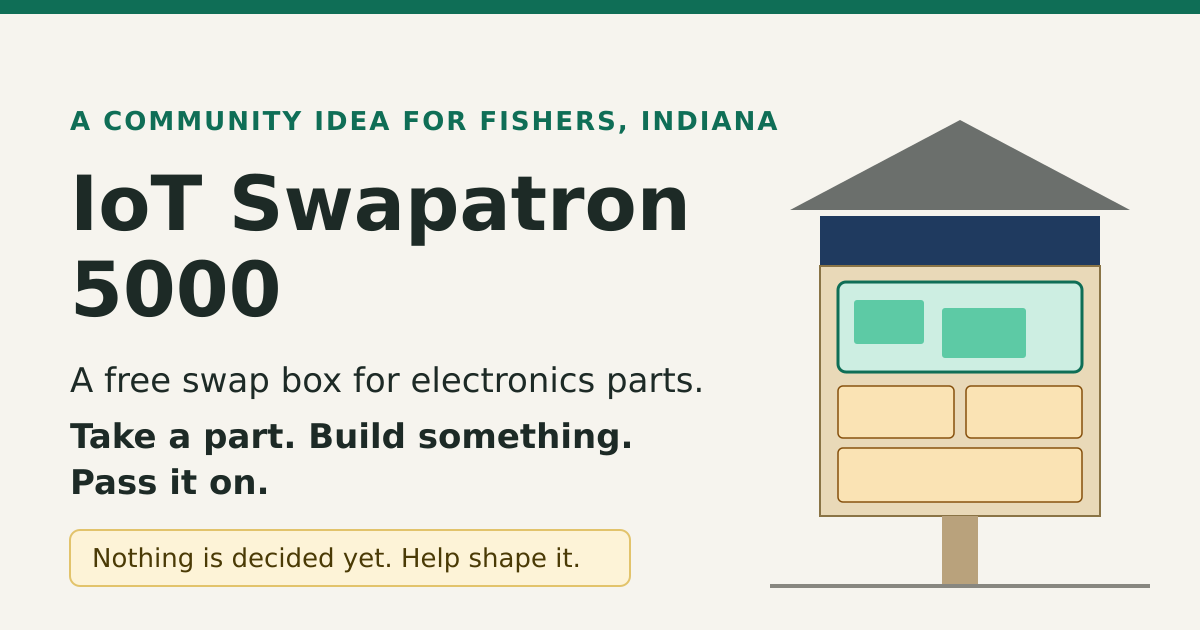
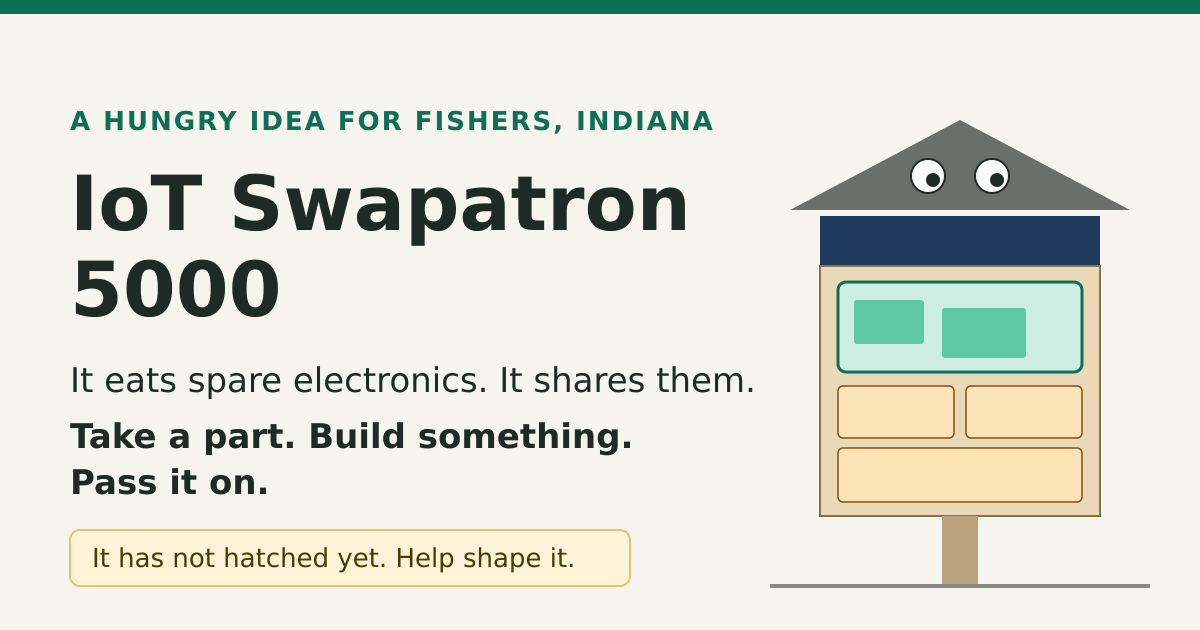
Give Swapatron a voice and welcome doubts as challenges
Writes the page, README, and share kit in a playful creature voice,
adds CHALLENGES.md with a 'This won't work because' issue form and a
list of known unsolved challenges, adds voice guidance for AI
assistants, and puts eyes on the example drawing and social card.

Claude-Session: https://claude.ai/code/session_01EjW4fMZqNJpCpFvE8avVg6

diff --git a/index.html b/index.html
@@ -73,14 +73,14 @@
 </head>
 <body>
 <main>
-  <div class="tag">A community idea for Fishers, Indiana</div>
+  <div class="tag">A hungry idea for Fishers, Indiana</div>
   <h1>IoT Swapatron 5000</h1>
-  <p class="lead">A free swap box for electronics parts, open to everyone.</p>
+  <p class="lead">Meet Swapatron. It is a box. It eats spare electronics parts, and it gives them to whoever needs them next.</p>
   <p class="lead promise">Take a part. Build something. Pass it on.</p>
 
   <section class="note">
     <h2>Nothing is decided yet</h2>
-    <p>The box does not exist yet. The design, the rules, the name, and the dates are all open. We are collecting ideas until <strong>Sunday, January 10, 2027</strong>, and we want yours.</p>
+    <p>Swapatron has not hatched yet. Its shape, its rules, its name, and its dates are all open. We are collecting ideas until <strong>Sunday, January 10, 2027</strong>, and we want yours.</p>
   </section>
 
   <section>
@@ -89,7 +89,8 @@
       <img src="hardware/designs/example-concept/concept-front.svg" alt="Example sketch of an outdoor box with a sloped roof, a sign, a sealed bin for boards, and open bins for wire and hardware" width="800" height="680">
       <figcaption>One example sketch to react to. It is not the chosen design.</figcaption>
     </figure>
-    <p>Think of a neighborhood book box, but for dev boards, sensors, wire, and connectors. It would sit outside the Indiana IoT Lab, and the community would design it, build it, stock it, and look after it.</p>
+    <p>Think of a neighborhood book box, but for dev boards, sensors, wire, and connectors. Swapatron would live outside the Indiana IoT Lab. The community would design it, build it, feed it, and look after it.</p>
+    <p>You feed it the parts in your drawer. It passes them on to someone who will build with them. (Yes, "passes". We are not explaining further.)</p>
   </section>
 
   <section>
@@ -97,11 +98,11 @@
     <div class="cols">
       <div>
         <h3>New to electronics?</h3>
-        <p>Get parts for free, with a note on what each one is and what to build first. No experience needed.</p>
+        <p>Swapatron shares. Take free parts, with a note on what each one is and what to build first. No experience needed.</p>
       </div>
       <div>
         <h3>Been building for years?</h3>
-        <p>Give your spare parts a second life, and start someone off with what you know.</p>
+        <p>Swapatron is hungry. Feed it your spare parts, and start someone off with what you know.</p>
       </div>
     </div>
   </section>
@@ -115,13 +116,19 @@
   </section>
 
   <section>
+    <h2>Think it won't work?</h2>
+    <p>Good. Tell Swapatron to its face. Every "this won't work because..." is treated as a challenge to overcome, not a reason to quit. Swapatron can not fix what it only hears about secondhand.</p>
+    <a class="btn alt" href="https://github.com/Fishers-Founders-United/Swapatron5000/blob/main/CHALLENGES.md">Tell it why it won't work</a>
+  </section>
+
+  <section>
     <h2>The proposed timeline</h2>
     <table>
       <tr><td>Now to Jan 10, 2027</td><td>Listen. Collect ideas and sketches</td></tr>
       <tr><td>Jan 11 to Jan 31</td><td>Decide, in the open</td></tr>
       <tr><td>Feb 1 to Mar 14</td><td>Gather materials</td></tr>
       <tr><td>Sat Mar 20</td><td>Build day, indoors at the lab</td></tr>
-      <tr><td>Sat Apr 24</td><td>Opening day</td></tr>
+      <tr><td>Sat Apr 24</td><td>Opening day. First feeding</td></tr>
     </table>
     <p>Every date is a proposal, and depends on the lab approving the site. <a href="https://github.com/Fishers-Founders-United/Swapatron5000/blob/main/ROADMAP.md">Full timeline</a>.</p>
   </section>

diff --git a/README.md b/README.md
@@ -4,11 +4,15 @@
 
 **Take a part. Build something. Pass it on.**
 
-> **Nothing is decided yet.** The box does not exist. The design, the rules, the name, and the dates are all open. We are collecting ideas until **Sunday, January 10, 2027**. [Have your say](docs/have-your-say.md).
+Meet Swapatron. It is a box. It eats spare electronics parts, and it gives them to whoever needs them next.
+
+> **Nothing is decided yet.** Swapatron has not hatched. Its shape, its rules, its name, and its dates are all open. We are collecting ideas until **Sunday, January 10, 2027**. [Have your say](docs/have-your-say.md).
 
 ## The idea
 
-Think of a neighborhood book box, but for dev boards, sensors, wire, and connectors. It would sit outside the Indiana IoT Lab. The community would design it, build it, stock it, and look after it.
+Think of a neighborhood book box, but for dev boards, sensors, wire, and connectors. Swapatron would live outside the Indiana IoT Lab. The community would design it, build it, feed it, and look after it.
+
+You feed it the parts in your drawer. It passes them on to someone who will build with them. (Yes, "passes". We are not explaining further.)
 
 ![Example concept, front view](hardware/designs/example-concept/concept-front.svg)
 
@@ -16,8 +20,8 @@ Think of a neighborhood book box, but for dev boards, sensors, wire, and connect
 
 ## Who it is for
 
-- **New to electronics?** Get parts for free, with a note on what each one is and what to build first.
-- **Been building for years?** Give your spare parts a second life, and start someone off with what you know.
+- **New to electronics?** Swapatron shares. Take free parts, with a note on what each one is and what to build first.
+- **Been building for years?** Swapatron is hungry. Feed it your spare parts, and start someone off with what you know.
 
 ## Help shape it
 
@@ -31,6 +35,7 @@ You do not need to code. Everything here works on a phone. Never used GitHub? [T
 | Give a part or supply | Check the [wishlist](bom/BOM.csv), then [pledge it](../../issues/new?template=pledge-a-part.yml) |
 | Ask for a part I need | [Ask for a part](../../issues/new?template=ask-for-a-part.yml) |
 | Take on a job | Pick one from the [bounty board](BOUNTIES.md) |
+| Say why it won't work | [Tell Swapatron to its face](CHALLENGES.md). Every doubt is treated as a challenge to overcome |
 | Spread the word | Use the [share kit](docs/share-kit.md) |
 
 Every contribution earns a spot on the [Contributors Wall](CONTRIBUTORS.md).
@@ -47,6 +52,10 @@ Every contribution earns a spot on the [Contributors Wall](CONTRIBUTORS.md).
 
 Every date is a proposal and depends on the lab approving the site. [Full timeline](ROADMAP.md).
 
+## Think it won't work?
+
+Good. [Tell Swapatron to its face](CHALLENGES.md). Every "this won't work because..." is received as a challenge to overcome, not a reason to scrap the project. Swapatron can not fix what it only hears about secondhand.
+
 ## Stuck?
 
 [Ask for help](../../issues/new?template=help.yml). No question is too small.
@@ -56,6 +65,7 @@ Every date is a proposal and depends on the lab approving the site. [Full timeli
 | Page | What it is |
 |---|---|
 | [VISION.md](VISION.md) | The dream: where this could go. Open for anyone to edit |
+| [CHALLENGES.md](CHALLENGES.md) | Every reason this might not work, and how we plan to beat it |
 | [DECISIONS.md](DECISIONS.md) | Every open question, and how decisions get made |
 | [ROADMAP.md](ROADMAP.md) | The proposed timeline in full |
 | [BOUNTIES.md](BOUNTIES.md) | Jobs with points, levels, and badges |

diff --git a/CHALLENGES.md b/CHALLENGES.md
@@ -1,0 +1,50 @@
+# "This won't work because..."
+
+Good. Tell Swapatron to its face.
+
+Swapatron has excellent hearing, but it can only fix what it is told directly. A doubt muttered in a hallway helps nobody. A doubt written down here becomes a problem with a name, and problems with names get solved.
+
+## The deal
+
+1. **Every "this won't work because ___" is welcome here.** The blunter and more specific, the better.
+2. **It will be received as a challenge to overcome, not a reason to scrap the project.** That is the rule for everyone, including the people who started this.
+3. **You do not have to bring a solution.** Spotting the problem is a contribution, and it earns a point on the [Contributors Wall](CONTRIBUTORS.md).
+4. **If you can solve one, even better.** Solved challenges earn bounty points. See [BOUNTIES.md](BOUNTIES.md).
+
+[**Tell Swapatron why it won't work**](../../issues/new?template=wont-work.yml)
+
+Never used GitHub? [This two minute guide](docs/have-your-say.md) shows you where to tap.
+
+## Challenges we already know about
+
+We are not pretending these are solved. Each one needs someone smarter than a hungry box.
+
+| It won't work because... | Status | First thoughts |
+|---|---|---|
+| Rain, humidity, and Indiana winters will ruin the electronics | Unsolved | A sealed bin with a drying pack inside a vented shell. Needs a real design |
+| People will dump broken junk in it | Unsolved | Clear rules on the sign, a weekly check, "tested working" labels |
+| Someone will take everything | Unsolved | Maybe that is fine. Maybe a lock on the good stuff. Open question |
+| Nobody will look after it | Unsolved | A rota with real names. If the rota stays empty for a month, the box closes |
+| Batteries are a fire risk | Unsolved | Proposed: no loose lithium cells and no charging in the outdoor box |
+| Beginners will not know what the parts are | Unsolved | A card in every bag: what it is, and what to build first |
+| Nobody new will use GitHub | Unsolved | The box and the web page come first. GitHub comes later, with a two minute guide |
+| Kids under 13 can not have GitHub accounts | Unsolved | They take part with an adult. Needs a better answer |
+| The lab or the property owner might say no | Unsolved | Ask early, in writing, and design around what they need |
+| Volunteers lose interest after the launch | Unsolved | Small jobs, quick thanks, and a review every 90 days |
+| It will cost money nobody has | Unsolved | Donated materials first. No bill should land on one person |
+
+See one that is wrong, or missing? [Add yours](../../issues/new?template=wont-work.yml).
+
+## How a challenge gets handled
+
+1. It gets the `challenge` label and a thank you.
+2. People pile on with ideas, experience, and "we tried that once" stories.
+3. If it needs a decision, it goes into [DECISIONS.md](DECISIONS.md).
+4. If it needs work, it becomes a [bounty](BOUNTIES.md).
+5. If it turns out to be a real reason to change the plan, the plan changes. That is the point of asking.
+
+## The ground rules
+
+- Go after the idea, never the person.
+- "This is dumb" is not a challenge. "The door will swing into the walkway" is.
+- Safety problems jump the queue. If you see one, say so loudly.

diff --git a/AGENTS.md b/AGENTS.md
@@ -20,12 +20,13 @@ People: you can paste this to your assistant: "Read AGENTS.md in github.com/Fish
 
 1. [README.md](README.md): the front door
 2. [VISION.md](VISION.md): the long-term dream. It is a dream, not a plan or a commitment
-3. [DECISIONS.md](DECISIONS.md): every open question, and how decisions are made
-4. [ROADMAP.md](ROADMAP.md): the proposed timeline
-5. [BOUNTIES.md](BOUNTIES.md): jobs that need doing, with points
-6. [ASKS.md](ASKS.md): how people request parts and how others fill those requests
-7. [CONTRIBUTING.md](CONTRIBUTING.md): how contributions work
-8. The team page for the work at hand: [hardware/](hardware/README.md), [electronics/](electronics/README.md), [software/](software/README.md), or [ux/](ux/README.md)
+3. [CHALLENGES.md](CHALLENGES.md): known reasons it might not work, and how doubts are handled
+4. [DECISIONS.md](DECISIONS.md): every open question, and how decisions are made
+5. [ROADMAP.md](ROADMAP.md): the proposed timeline
+6. [BOUNTIES.md](BOUNTIES.md): jobs that need doing, with points
+7. [ASKS.md](ASKS.md): how people request parts and how others fill those requests
+8. [CONTRIBUTING.md](CONTRIBUTING.md): how contributions work
+9. The team page for the work at hand: [hardware/](hardware/README.md), [electronics/](electronics/README.md), [software/](software/README.md), or [ux/](ux/README.md)
 
 ## Proposed timeline
 
@@ -54,6 +55,16 @@ Check [ROADMAP.md](ROADMAP.md) for the current version. Dates may have moved sin
 | Fix the docs | Find confusing or contradictory text and propose plain-language fixes |
 
 High-value gaps right now: design sketches, a suggestion for the standard bin, the sign and label designs, a "took and left" form, and a battery safety summary reviewed by a qualified person.
+
+## The voice
+
+Swapatron is written about as a living creature: a friendly, hungry box. It eats spare parts ("feed it"), shares them ("it passes them on"), has not been built yet ("has not hatched"), and is looked after by keepers.
+
+- Be playful in headlines, invitations, and thank-yous.
+- Be plain in instructions. A beginner must never have to decode a joke to find the next tap.
+- Never joke in safety text, in rules about children, or about a person.
+- One wink per page is plenty. If a joke needs explaining, cut it.
+- Doubts and criticism are welcomed as challenges to overcome. See [CHALLENGES.md](CHALLENGES.md). Never dismiss one, and never treat one as a reason to abandon the project.
 
 ## How to write for this project
 

diff --git a/docs/share-kit.md b/docs/share-kit.md
@@ -8,6 +8,14 @@ Want to tell people about the project? Copy anything on this page. Change the wo
 
 A group of us in Fishers are planning a free swap box for electronics parts, and we want your ideas before anything is decided.
 
+## The cheeky one
+
+> Meet Swapatron. It is a box. It eats the spare electronics in your drawer and passes them on to someone who will build with them.
+>
+> It has not hatched yet. It lives in Fishers, Indiana, and it needs help deciding what it looks like, what it eats, and what its rules are.
+>
+> Think it won't work? Excellent. Tell it to its face: https://fishers-founders-united.github.io/Swapatron5000/
+
 ## Short post
 
 > We're planning the IoT Swapatron 5000: a free swap box for electronics parts in Fishers, Indiana. Take a part. Build something. Pass it on.
@@ -45,7 +53,7 @@ A short checklist for the maintainers. Announce in this order.
 
 - [ ] The lab has agreed to the project being announced with its name attached
 - [ ] The open questions exist as issues, so visitors have somewhere to comment
-- [ ] The `ask`, `bounty`, and `decision` labels exist
+- [ ] The `ask`, `bounty`, `decision`, and `challenge` labels exist
 - [ ] At least two maintainers are named in [GOVERNANCE.md](../GOVERNANCE.md)
 - [ ] Three or four people have each posted a first sketch or comment, so the project does not look empty
 - [ ] The web page and every button on it have been tested on a phone

diff --git a/CONTRIBUTING.md b/CONTRIBUTING.md
@@ -8,6 +8,7 @@ Everyone is welcome, including people who have never used GitHub. If that is you
 
 - **Share a design sketch.** A photo of a pencil drawing is welcome. See [hardware/README.md](hardware/README.md).
 - **Join a team.** Box design, electronics, box management software, or UI and UX. See the table in the [README](README.md).
+- **Say why it won't work.** Doubts are welcome and are treated as challenges to overcome. See [CHALLENGES.md](CHALLENGES.md).
 - **Ask for a part, or fill an ask.** See [ASKS.md](ASKS.md).
 - **Add to the dream.** [VISION.md](VISION.md) is open for anyone to edit.
 - **Pledge parts or supplies.** See [bom/README.md](bom/README.md).
@@ -37,6 +38,7 @@ Types: `part`, `build`, `code`, `docs`, `upkeep`, `idea`. Points: 1, 2, 3, or 5.
 | `good first issue` | Small, well described, good for newcomers and kids |
 | `bounty` | A job with points attached. See [BOUNTIES.md](BOUNTIES.md) |
 | `ask` | Someone needs a part. See [ASKS.md](ASKS.md) |
+| `challenge` | A reason it might not work. See [CHALLENGES.md](CHALLENGES.md) |
 | `decision` | An open question the community is deciding |
 | `hardware` | Shell, modules, mounting |
 | `electronics` | Power, lighting, sensors |

diff --git a/docs/starter-issues.md b/docs/starter-issues.md
@@ -43,7 +43,9 @@ Also create:
 | One issue per bounty in `BOUNTIES.md`, titled "Bounty (points): job" | `bounty` |
 | Confirm with the lab whether parcels can be received, then remove the notice in `ASKS.md` | `needs owner` |
 
-Also create the `ask`, `bounty`, and `decision` labels. The "Ask for a part" form needs the `ask` label to exist.
+Also create the `ask`, `bounty`, `decision`, and `challenge` labels. The "Ask for a part" and "This won't work because" forms need their labels to exist.
+
+Create one `challenge` issue for each row in the table in `CHALLENGES.md`, so people can pile on.
 
 ## How to write an easy win
 

diff --git a/BOUNTIES.md b/BOUNTIES.md
@@ -57,6 +57,7 @@ These open as issues once the project launches. Most are for the listening phase
 | Bounty | Points | Type |
 |---|---|---|
 | Share a design sketch for the box | 1 | idea |
+| Tell Swapatron why it won't work, with specifics | 1 | idea |
 | Suggest a standard bin, with a store link and its size | 1 | idea |
 | Test the web page on your phone and report what is confusing | 1 | docs |
 | Bring a friend who makes their first contribution | 1 | idea |

diff --git a/VISION.md b/VISION.md
@@ -4,7 +4,7 @@
 
 ## The one sentence version
 
-A kid walks up to a box outside the lab, takes a sensor, goes home, builds something, and comes back to leave a part for the next kid.
+A kid walks up to Swapatron, takes a sensor, goes home, builds something, and comes back to feed it a part for the next kid.
 
 ## The first box
 
